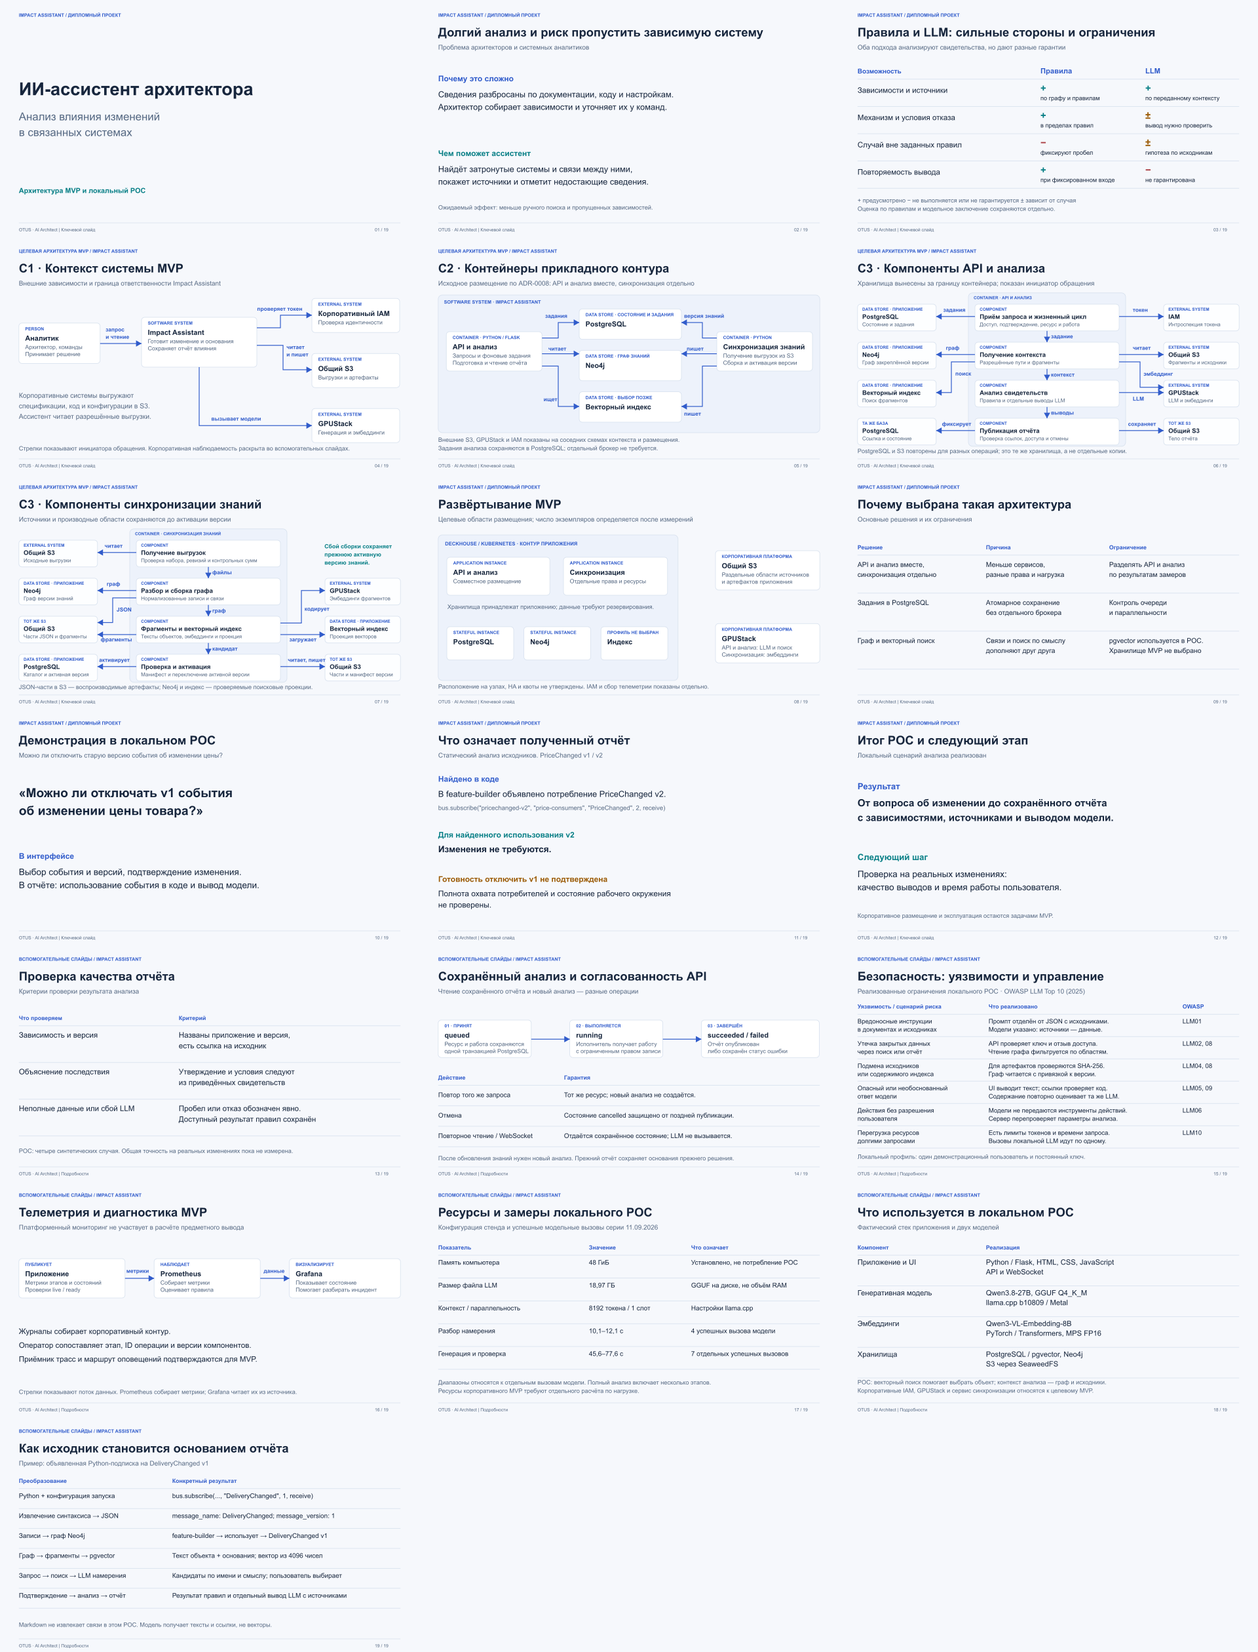
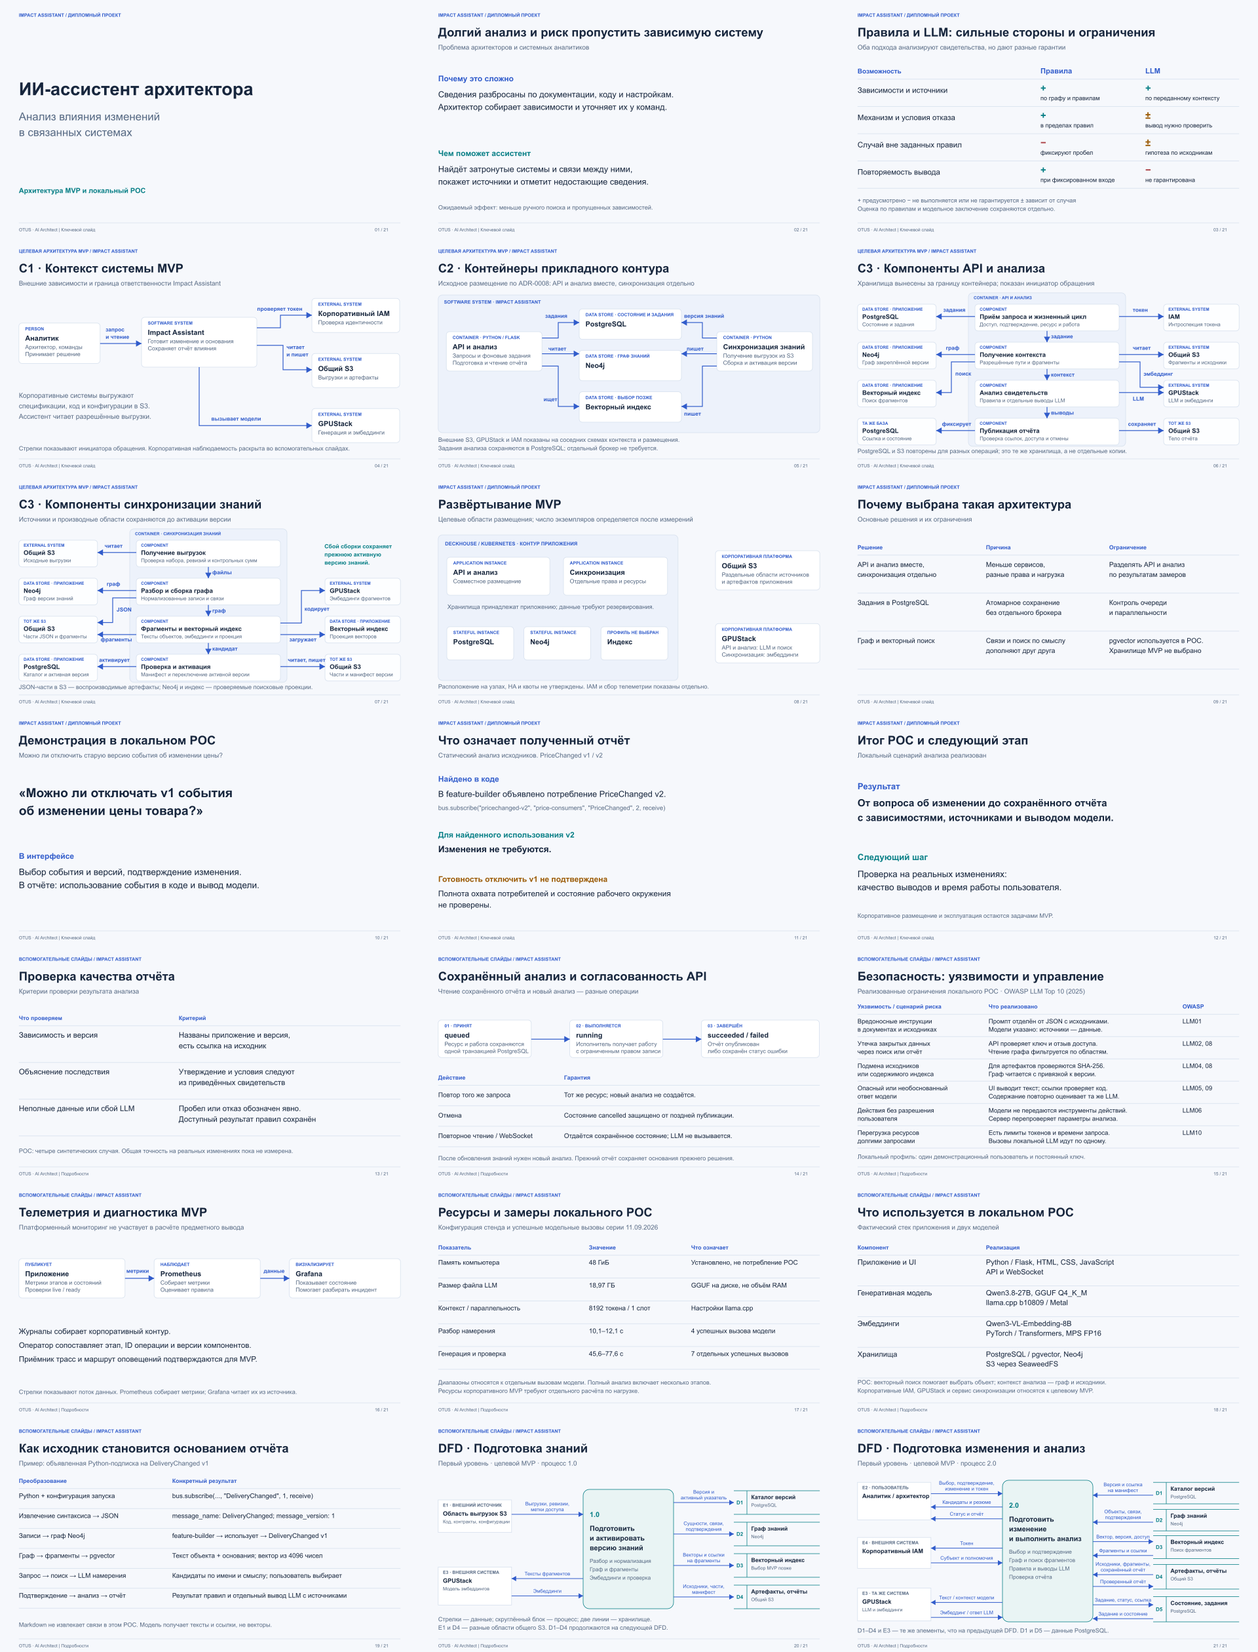
Add two DFD appendix slides for target MVP

Changed region(s): [[0.6875, 0.8667, 0.9688, 1.0], [0.3438, 0.8976, 0.6562, 1.0], [0.3438, 0.8667, 0.4688, 0.9286]]

diff --git a/impact-assistant/index.html b/impact-assistant/index.html
@@ -1,1 +1,1 @@
-<!doctype html><html lang="ru"><meta charset="utf-8"><meta name="viewport" content="width=device-width, initial-scale=1"><title>Impact Assistant · презентация</title><style>*{box-sizing:border-box}body{margin:0;background:#17263d;color:white;font-family:Arial,sans-serif}main{display:flex;min-height:100vh;align-items:center;justify-content:center}img{width:min(100vw,177.777vh);height:auto;display:block}nav{position:fixed;bottom:10px;right:14px;background:#17263ded;padding:10px;display:flex;gap:12px;border-radius:8px}button,a{font:16px Arial;color:white;background:none;border:0;cursor:pointer}button:focus-visible,a:focus-visible{outline:2px solid #80cdda;outline-offset:3px}#toc{display:none;position:fixed;inset:35px;background:#17263df8;padding:25px;overflow:auto}#toc a{display:block;padding:8px;text-decoration:none}#toc.open{display:block}@media print{nav,#toc{display:none}}</style><main><img id="slide" alt=""></main><nav><button id="prev" aria-label="Предыдущий слайд">←</button><span id="num"></span><button id="next" aria-label="Следующий слайд">→</button><button id="mode" aria-pressed="false">Короткий показ</button><button id="contents">Слайды</button><button id="full">На весь экран</button></nav><aside id="toc"><h2>Основной рассказ</h2><a href="#1" data-n="1">01 · ИИ-ассистент архитектора · ключевой</a><a href="#2" data-n="2">02 · Долгий анализ и риск пропустить зависимую систему · ключевой</a><a href="#3" data-n="3">03 · Правила и LLM: сильные стороны и ограничения · ключевой</a><a href="#4" data-n="4">04 · C1 · Контекст системы MVP · ключевой</a><a href="#5" data-n="5">05 · C2 · Контейнеры прикладного контура · ключевой</a><a href="#6" data-n="6">06 · C3 · Компоненты API и анализа · ключевой</a><a href="#7" data-n="7">07 · C3 · Компоненты синхронизации знаний · ключевой</a><a href="#8" data-n="8">08 · Развёртывание MVP · ключевой</a><a href="#9" data-n="9">09 · Почему выбрана такая архитектура · ключевой</a><a href="#10" data-n="10">10 · Демонстрация в локальном POC · ключевой</a><a href="#11" data-n="11">11 · Что означает полученный отчёт · ключевой</a><a href="#12" data-n="12">12 · Итог POC и следующий этап · ключевой</a><h2>Вспомогательные слайды</h2><a href="#13" data-n="13">13 · Проверка качества отчёта</a><a href="#14" data-n="14">14 · Сохранённый анализ и согласованность API</a><a href="#15" data-n="15">15 · Безопасность: уязвимости и управление</a><a href="#16" data-n="16">16 · Телеметрия и диагностика MVP</a><a href="#17" data-n="17">17 · Ресурсы и замеры локального POC</a><a href="#18" data-n="18">18 · Что используется в локальном POC</a><a href="#19" data-n="19">19 · Как исходник становится основанием отчёта</a></aside><script>const slides=[{"n":1,"file":"01-title.svg","title":"ИИ-ассистент архитектора","time":10,"revision":"06382b243ae0"},{"n":2,"file":"02-problem.svg","title":"Долгий анализ и риск пропустить зависимую систему","time":20,"revision":"981defda7e0b"},{"n":3,"file":"03-approaches.svg","title":"Правила и LLM: сильные стороны и ограничения","time":30,"revision":"230fa980232c"},{"n":4,"file":"04-c1.svg","title":"C1 · Контекст системы MVP","time":15,"revision":"5c2c15390f25"},{"n":5,"file":"05-c2.svg","title":"C2 · Контейнеры прикладного контура","time":25,"revision":"ae751063bed9"},{"n":6,"file":"06-c3-online.svg","title":"C3 · Компоненты API и анализа","time":25,"revision":"b7d2208d1c41"},{"n":7,"file":"07-c3-knowledge.svg","title":"C3 · Компоненты синхронизации знаний","time":25,"revision":"6578b68eb90f"},{"n":8,"file":"08-deployment.svg","title":"Развёртывание MVP","time":15,"revision":"6394b96f9e48"},{"n":9,"file":"09-decisions.svg","title":"Почему выбрана такая архитектура","time":20,"revision":"1eeb1548d04b"},{"n":10,"file":"10-demo.svg","title":"Демонстрация в локальном POC","time":75,"revision":"33cefacf85e1"},{"n":11,"file":"11-migration-case.svg","title":"Что означает полученный отчёт","time":20,"revision":"355d868dbc62"},{"n":12,"file":"12-result.svg","title":"Итог POC и следующий этап","time":20,"revision":"a6b045867650"},{"n":13,"file":"13-quality.svg","title":"Проверка качества отчёта","time":0,"revision":"ca9d40155273"},{"n":14,"file":"14-lifecycle.svg","title":"Сохранённый анализ и согласованность API","time":0,"revision":"64557965c635"},{"n":15,"file":"15-security.svg","title":"Безопасность: уязвимости и управление","time":0,"revision":"addeeb4c46e1"},{"n":16,"file":"16-observability.svg","title":"Телеметрия и диагностика MVP","time":0,"revision":"9afc039ab02d"},{"n":17,"file":"17-capacity.svg","title":"Ресурсы и замеры локального POC","time":0,"revision":"fba74fa4f513"},{"n":18,"file":"18-local.svg","title":"Что используется в локальном POC","time":0,"revision":"573cdd77409a"},{"n":19,"file":"19-pipeline.svg","title":"Как исходник становится основанием отчёта","time":0,"revision":"18670be8e618"}];const mainRoute=slides.filter(s=>s.time).map(s=>s.n);let n=1,short=false;const byId=id=>document.getElementById(id);function route(){return short?mainRoute:slides.map(s=>s.n)}function show(){const raw=Number.parseInt(location.hash.slice(1),10);n=Math.max(1,Math.min(slides.length,Number.isFinite(raw)?raw:1));const s=slides[n-1];byId('slide').src=s.file+'?v='+s.revision;byId('slide').alt=s.title;byId('num').textContent=n+' / '+slides.length;byId('toc').classList.remove('open')}function go(d){const r=route();const next=d>0?r.find(v=>v>n):r.slice().reverse().find(v=>v<n);if(next)location.hash=next}byId('prev').onclick=()=>go(-1);byId('next').onclick=()=>go(1);byId('mode').onclick=()=>{short=!short;byId('mode').textContent=short?'Все слайды':'Короткий показ';byId('mode').setAttribute('aria-pressed',String(short));if(short&&!mainRoute.includes(n))location.hash=mainRoute.find(v=>v>=n)||mainRoute[mainRoute.length-1]};byId('contents').onclick=()=>byId('toc').classList.toggle('open');byId('full').onclick=()=>{const op=document.fullscreenElement?document.exitFullscreen?.():document.documentElement.requestFullscreen?.();op?.catch(()=>{})};addEventListener('hashchange',show);addEventListener('keydown',e=>{if(e.target.closest('button,a,input,select,textarea'))return;if(['ArrowRight','PageDown',' '].includes(e.key)){e.preventDefault();go(1)}if(['ArrowLeft','PageUp'].includes(e.key)){e.preventDefault();go(-1)}if(e.key==='Home'){e.preventDefault();location.hash=route()[0]}if(e.key==='End'){e.preventDefault();location.hash=route().at(-1)}if(e.key==='Escape')byId('toc').classList.remove('open')});show();</script></html>
+<!doctype html><html lang="ru"><meta charset="utf-8"><meta name="viewport" content="width=device-width, initial-scale=1"><title>Impact Assistant · презентация</title><style>*{box-sizing:border-box}body{margin:0;background:#17263d;color:white;font-family:Arial,sans-serif}main{display:flex;min-height:100vh;align-items:center;justify-content:center}img{width:min(100vw,177.777vh);height:auto;display:block}nav{position:fixed;bottom:10px;right:14px;background:#17263ded;padding:10px;display:flex;gap:12px;border-radius:8px}button,a{font:16px Arial;color:white;background:none;border:0;cursor:pointer}button:focus-visible,a:focus-visible{outline:2px solid #80cdda;outline-offset:3px}#toc{display:none;position:fixed;inset:35px;background:#17263df8;padding:25px;overflow:auto}#toc a{display:block;padding:8px;text-decoration:none}#toc.open{display:block}@media print{nav,#toc{display:none}}</style><main><img id="slide" alt=""></main><nav><button id="prev" aria-label="Предыдущий слайд">←</button><span id="num"></span><button id="next" aria-label="Следующий слайд">→</button><button id="mode" aria-pressed="false">Короткий показ</button><button id="contents">Слайды</button><button id="full">На весь экран</button></nav><aside id="toc"><h2>Основной рассказ</h2><a href="#1" data-n="1">01 · ИИ-ассистент архитектора · ключевой</a><a href="#2" data-n="2">02 · Долгий анализ и риск пропустить зависимую систему · ключевой</a><a href="#3" data-n="3">03 · Правила и LLM: сильные стороны и ограничения · ключевой</a><a href="#4" data-n="4">04 · C1 · Контекст системы MVP · ключевой</a><a href="#5" data-n="5">05 · C2 · Контейнеры прикладного контура · ключевой</a><a href="#6" data-n="6">06 · C3 · Компоненты API и анализа · ключевой</a><a href="#7" data-n="7">07 · C3 · Компоненты синхронизации знаний · ключевой</a><a href="#8" data-n="8">08 · Развёртывание MVP · ключевой</a><a href="#9" data-n="9">09 · Почему выбрана такая архитектура · ключевой</a><a href="#10" data-n="10">10 · Демонстрация в локальном POC · ключевой</a><a href="#11" data-n="11">11 · Что означает полученный отчёт · ключевой</a><a href="#12" data-n="12">12 · Итог POC и следующий этап · ключевой</a><h2>Вспомогательные слайды</h2><a href="#13" data-n="13">13 · Проверка качества отчёта</a><a href="#14" data-n="14">14 · Сохранённый анализ и согласованность API</a><a href="#15" data-n="15">15 · Безопасность: уязвимости и управление</a><a href="#16" data-n="16">16 · Телеметрия и диагностика MVP</a><a href="#17" data-n="17">17 · Ресурсы и замеры локального POC</a><a href="#18" data-n="18">18 · Что используется в локальном POC</a><a href="#19" data-n="19">19 · Как исходник становится основанием отчёта</a><a href="#20" data-n="20">20 · DFD · Подготовка знаний</a><a href="#21" data-n="21">21 · DFD · Подготовка изменения и анализ</a></aside><script>const slides=[{"n":1,"file":"01-title.svg","title":"ИИ-ассистент архитектора","time":10,"revision":"f82db2ff4b09"},{"n":2,"file":"02-problem.svg","title":"Долгий анализ и риск пропустить зависимую систему","time":20,"revision":"ba12d4d6b4d4"},{"n":3,"file":"03-approaches.svg","title":"Правила и LLM: сильные стороны и ограничения","time":30,"revision":"abfa7db7bab3"},{"n":4,"file":"04-c1.svg","title":"C1 · Контекст системы MVP","time":15,"revision":"08063c18def8"},{"n":5,"file":"05-c2.svg","title":"C2 · Контейнеры прикладного контура","time":25,"revision":"0edaf5ff294d"},{"n":6,"file":"06-c3-online.svg","title":"C3 · Компоненты API и анализа","time":25,"revision":"f4ad60086052"},{"n":7,"file":"07-c3-knowledge.svg","title":"C3 · Компоненты синхронизации знаний","time":25,"revision":"afd6af0f8cff"},{"n":8,"file":"08-deployment.svg","title":"Развёртывание MVP","time":15,"revision":"72b80eda7350"},{"n":9,"file":"09-decisions.svg","title":"Почему выбрана такая архитектура","time":20,"revision":"057854d56ceb"},{"n":10,"file":"10-demo.svg","title":"Демонстрация в локальном POC","time":75,"revision":"1b5c4c045800"},{"n":11,"file":"11-migration-case.svg","title":"Что означает полученный отчёт","time":20,"revision":"f3ccd505f4b9"},{"n":12,"file":"12-result.svg","title":"Итог POC и следующий этап","time":20,"revision":"e87de204067f"},{"n":13,"file":"13-quality.svg","title":"Проверка качества отчёта","time":0,"revision":"343d6d592662"},{"n":14,"file":"14-lifecycle.svg","title":"Сохранённый анализ и согласованность API","time":0,"revision":"b1bf41de0b3d"},{"n":15,"file":"15-security.svg","title":"Безопасность: уязвимости и управление","time":0,"revision":"6a138ed547f7"},{"n":16,"file":"16-observability.svg","title":"Телеметрия и диагностика MVP","time":0,"revision":"3bc166bfb4e3"},{"n":17,"file":"17-capacity.svg","title":"Ресурсы и замеры локального POC","time":0,"revision":"91e4d675a56b"},{"n":18,"file":"18-local.svg","title":"Что используется в локальном POC","time":0,"revision":"9921a2af198b"},{"n":19,"file":"19-pipeline.svg","title":"Как исходник становится основанием отчёта","time":0,"revision":"6d157c1c5dc5"},{"n":20,"file":"20-dfd-knowledge.svg","title":"DFD · Подготовка знаний","time":0,"revision":"945da6e92813"},{"n":21,"file":"21-dfd-analysis.svg","title":"DFD · Подготовка изменения и анализ","time":0,"revision":"b986cb91de36"}];const mainRoute=slides.filter(s=>s.time).map(s=>s.n);let n=1,short=false;const byId=id=>document.getElementById(id);function route(){return short?mainRoute:slides.map(s=>s.n)}function show(){const raw=Number.parseInt(location.hash.slice(1),10);n=Math.max(1,Math.min(slides.length,Number.isFinite(raw)?raw:1));const s=slides[n-1];byId('slide').src=s.file+'?v='+s.revision;byId('slide').alt=s.title;byId('num').textContent=n+' / '+slides.length;byId('toc').classList.remove('open')}function go(d){const r=route();const next=d>0?r.find(v=>v>n):r.slice().reverse().find(v=>v<n);if(next)location.hash=next}byId('prev').onclick=()=>go(-1);byId('next').onclick=()=>go(1);byId('mode').onclick=()=>{short=!short;byId('mode').textContent=short?'Все слайды':'Короткий показ';byId('mode').setAttribute('aria-pressed',String(short));if(short&&!mainRoute.includes(n))location.hash=mainRoute.find(v=>v>=n)||mainRoute[mainRoute.length-1]};byId('contents').onclick=()=>byId('toc').classList.toggle('open');byId('full').onclick=()=>{const op=document.fullscreenElement?document.exitFullscreen?.():document.documentElement.requestFullscreen?.();op?.catch(()=>{})};addEventListener('hashchange',show);addEventListener('keydown',e=>{if(e.target.closest('button,a,input,select,textarea'))return;if(['ArrowRight','PageDown',' '].includes(e.key)){e.preventDefault();go(1)}if(['ArrowLeft','PageUp'].includes(e.key)){e.preventDefault();go(-1)}if(e.key==='Home'){e.preventDefault();location.hash=route()[0]}if(e.key==='End'){e.preventDefault();location.hash=route().at(-1)}if(e.key==='Escape')byId('toc').classList.remove('open')});show();</script></html>

diff --git a/impact-assistant/README.md b/impact-assistant/README.md
@@ -4,7 +4,7 @@
 
 [Открыть презентацию](https://avkuzmin.github.io/impact-assistant/)
 
-19 слайдов. Основной рассказ: 01–12, 5 минут. Архитектура: 04–08. Вспомогательные материалы: 13–19.
+21 слайд. Основной рассказ: 01–12, 5 минут. Архитектура: 04–08. Вспомогательные материалы: 13–21.
 
 Последовательность: задача пользователя, сравнение правил и LLM, архитектура и причины решений, демонстрация PriceChanged, разбор отчёта и итог POC.
 
@@ -13,3 +13,5 @@
 Статический просмотрщик работает без сервера приложения и внешних зависимостей. Для демонстрации приложения используется локальный POC.
 
 Во вспомогательных слайдах: критерии качества, жизненный цикл, безопасность, наблюдаемость, реальные замеры ресурсов и фактический стек локального POC.
+
+DFD целевого MVP: слайд 20 — подготовка знаний, слайд 21 — подготовка изменения и анализ.
